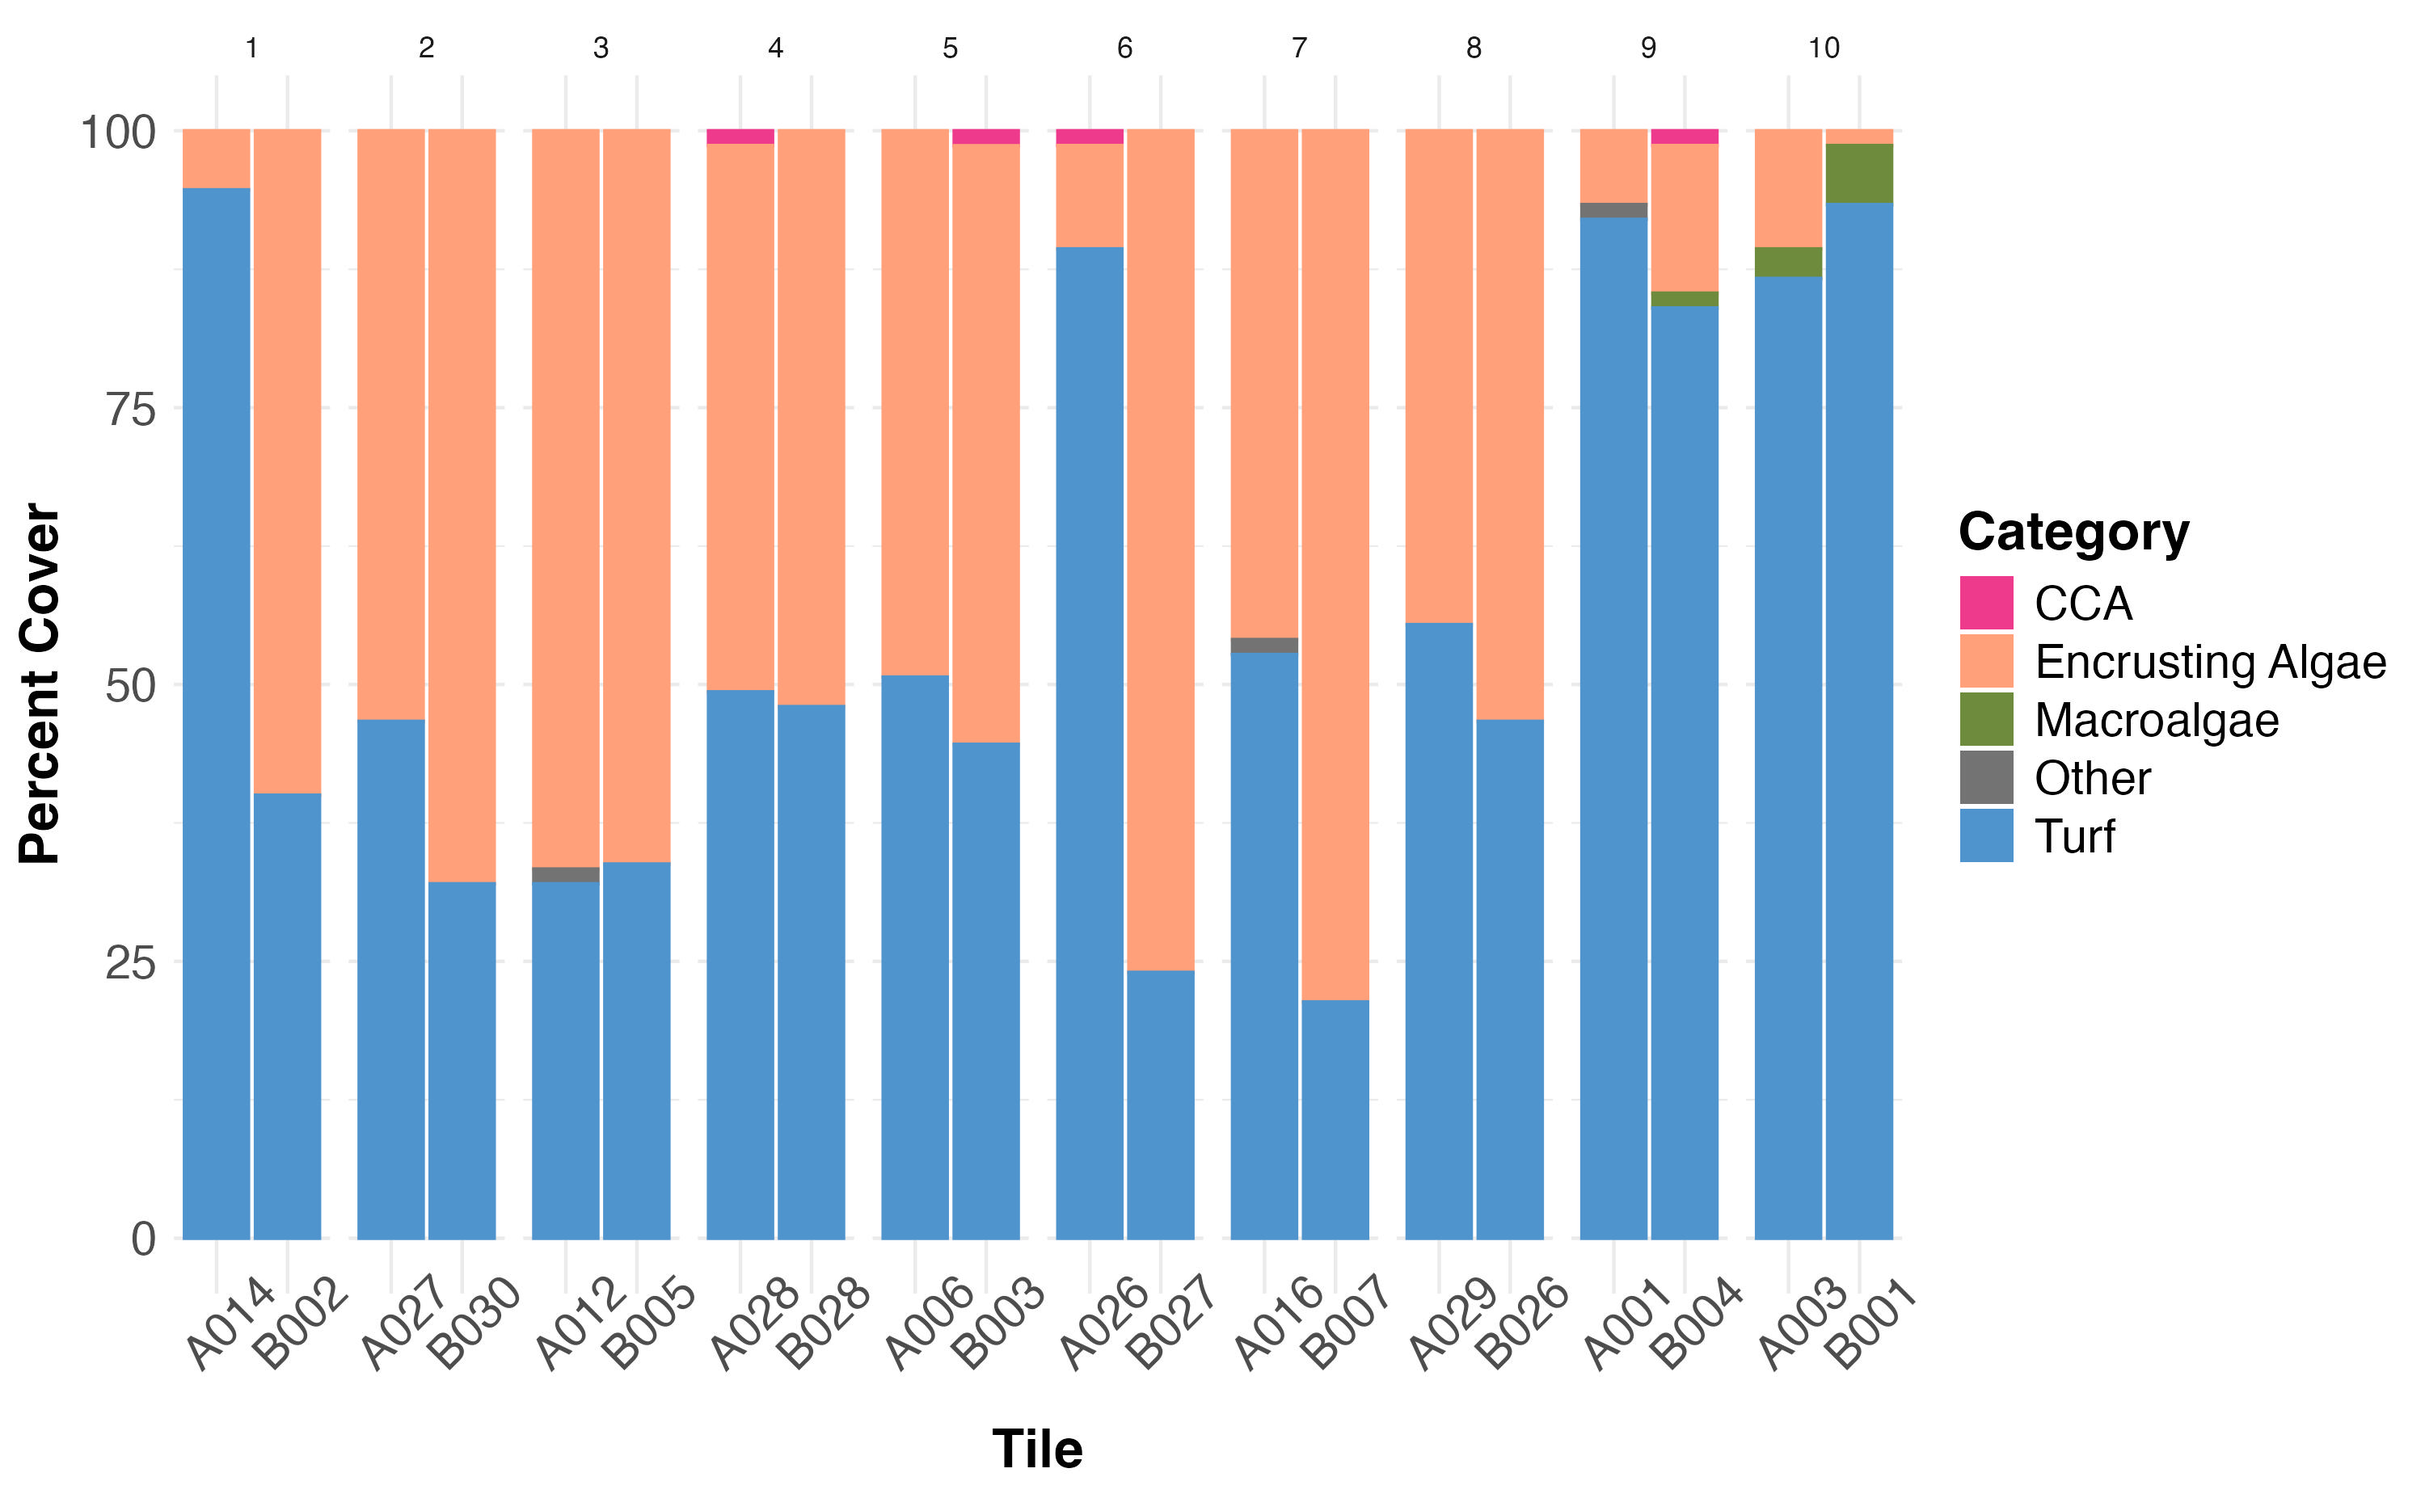
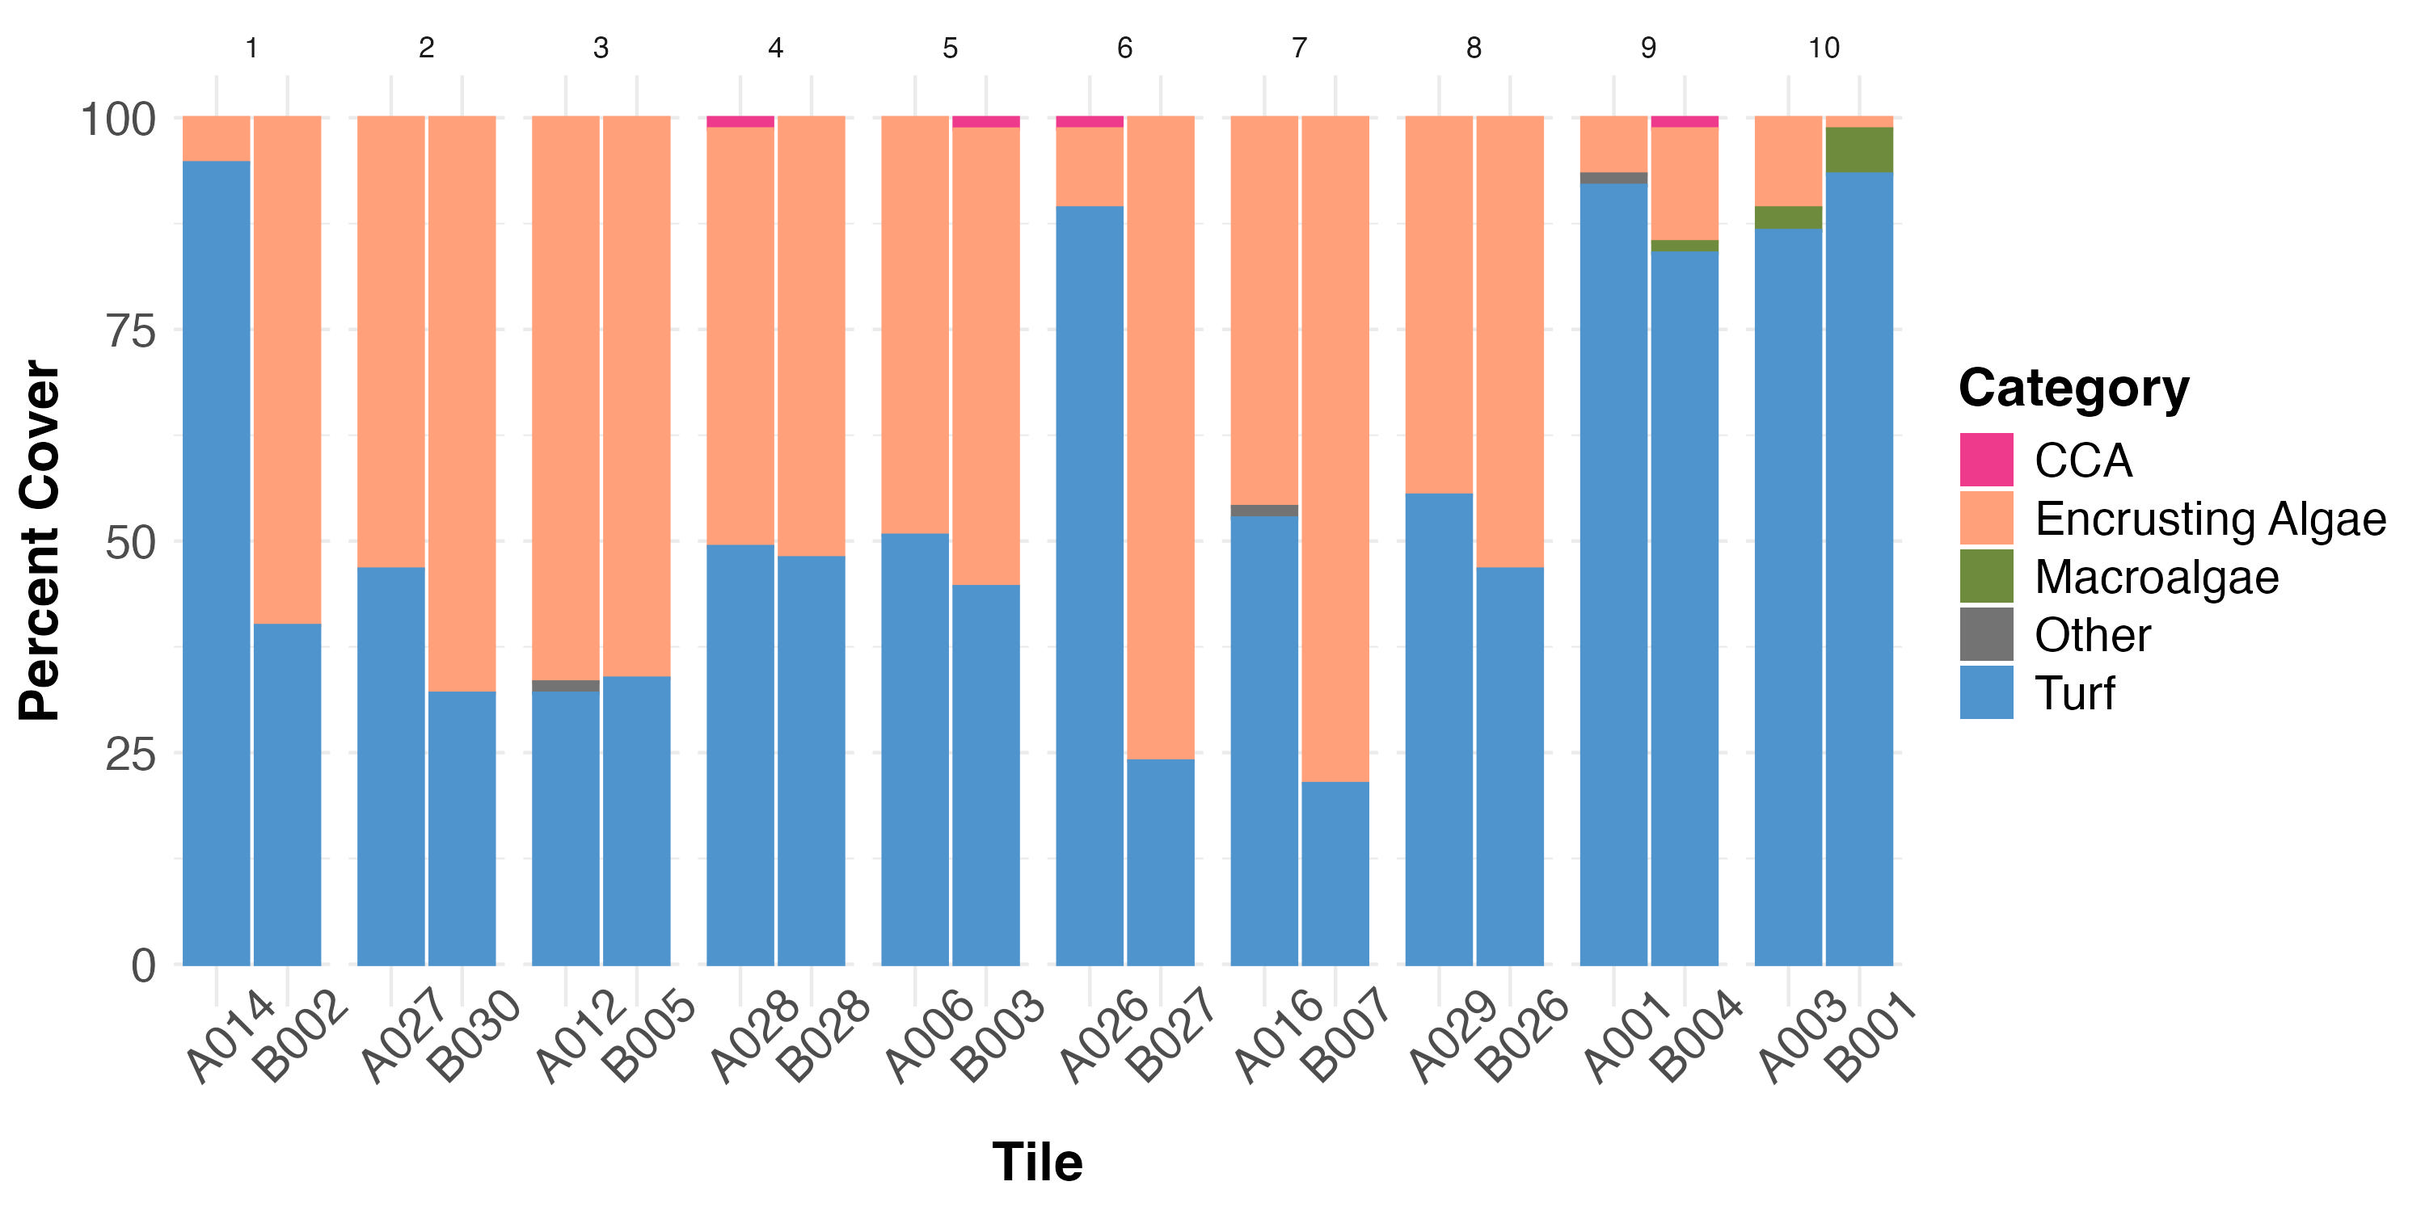
community comp updates + t-tests

diff --git a/Scripts/tile_community_composition.md b/Scripts/tile_community_composition.md
@@ -220,7 +220,9 @@ producer_cat %>%
             axis.text.x = element_text(angle = 45),
             legend.title = element_text(size = 16),
             legend.text = element_text(size = 14)) +
-    guides(color = "none")
+    guides(color = "none") +
+  scale_fill_manual(values = c("violetred2", '#FFA07A', "#6E8B3D", "gray45", "#4F94CD")) +
+  scale_color_manual(values = c("violetred2", '#FFA07A', "#6E8B3D", "gray45", "#4F94CD"))
 ```
 
 ![](tile_community_composition_files/figure-gfm/unnamed-chunk-12-1.png)<!-- -->
@@ -245,10 +247,18 @@ producer_cat %>%
             axis.text.x = element_text(angle = 45),
             legend.title = element_text(size = 16),
             legend.text = element_text(size = 14)) +
-    guides(color = "none")
+    guides(color = "none") +
+  scale_fill_manual(values = c("violetred2", '#FFA07A', "#6E8B3D", "gray45", "#4F94CD")) +
+  scale_color_manual(values = c("violetred2", '#FFA07A', "#6E8B3D", "gray45", "#4F94CD"))
 ```
 
 ![](tile_community_composition_files/figure-gfm/unnamed-chunk-13-1.png)<!-- -->
+
+``` r
+ggsave(here("Output", "block_percent_cover.jpeg"))
+```
+
+    ## Saving 10 x 5 in image
 
 Producer categories by treatment
 
@@ -258,7 +268,7 @@ producer_cat %>%
                y = percent_cover, 
                fill= category, 
                color= category)) + # set lines surrounding each color to match the fill colors 
-      geom_bar(stat="identity") + # stacked bars
+      geom_bar(stat="identity", position = "fill") + 
     
       labs(x = "Treatment", # labels
            y="Percent Cover",
@@ -270,10 +280,18 @@ producer_cat %>%
             axis.text = element_text(size = 14),
             legend.title = element_text(size = 16),
             legend.text = element_text(size = 14)) +
-    guides(color = "none")
+    guides(color = "none") +
+  scale_fill_manual(values = c("violetred2", '#FFA07A', "#6E8B3D", "gray45", "#4F94CD")) +
+  scale_color_manual(values = c("violetred2", '#FFA07A', "#6E8B3D", "gray45", "#4F94CD"))
 ```
 
 ![](tile_community_composition_files/figure-gfm/unnamed-chunk-14-1.png)<!-- -->
+
+``` r
+ggsave(here("Output", "treatment_percent_cover.jpeg"))
+```
+
+    ## Saving 7 x 5 in image
 
 ## Encrusting vs Turf
 
